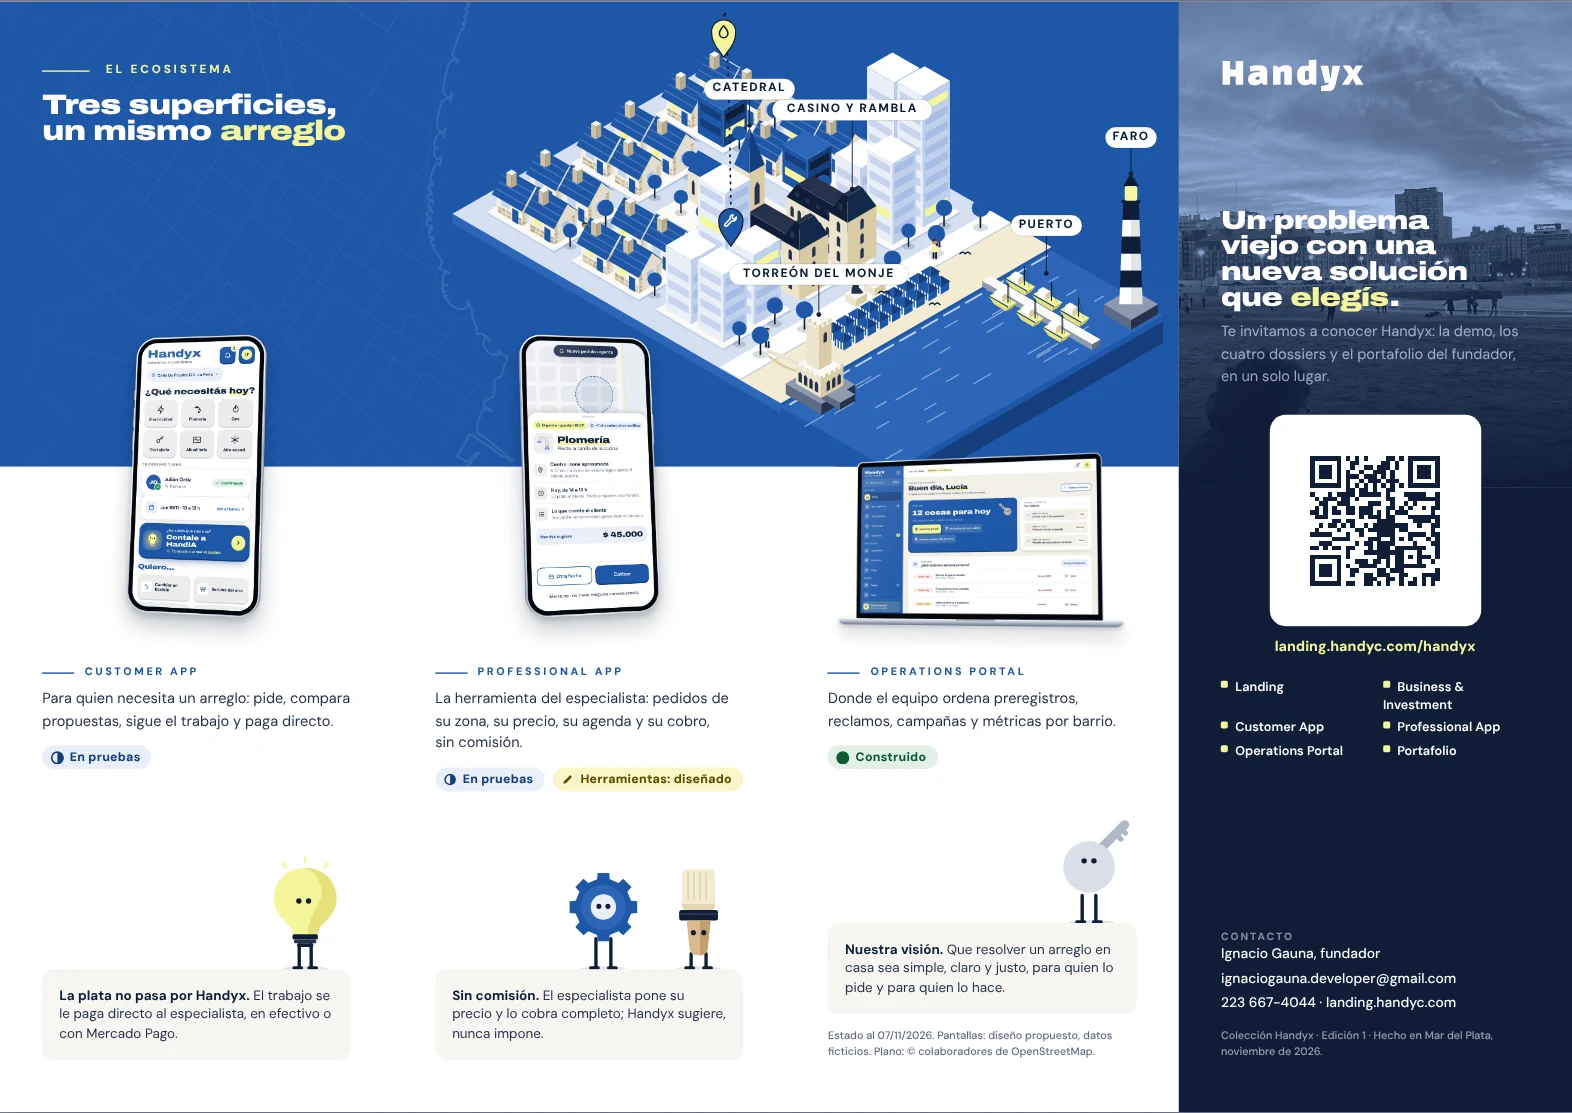
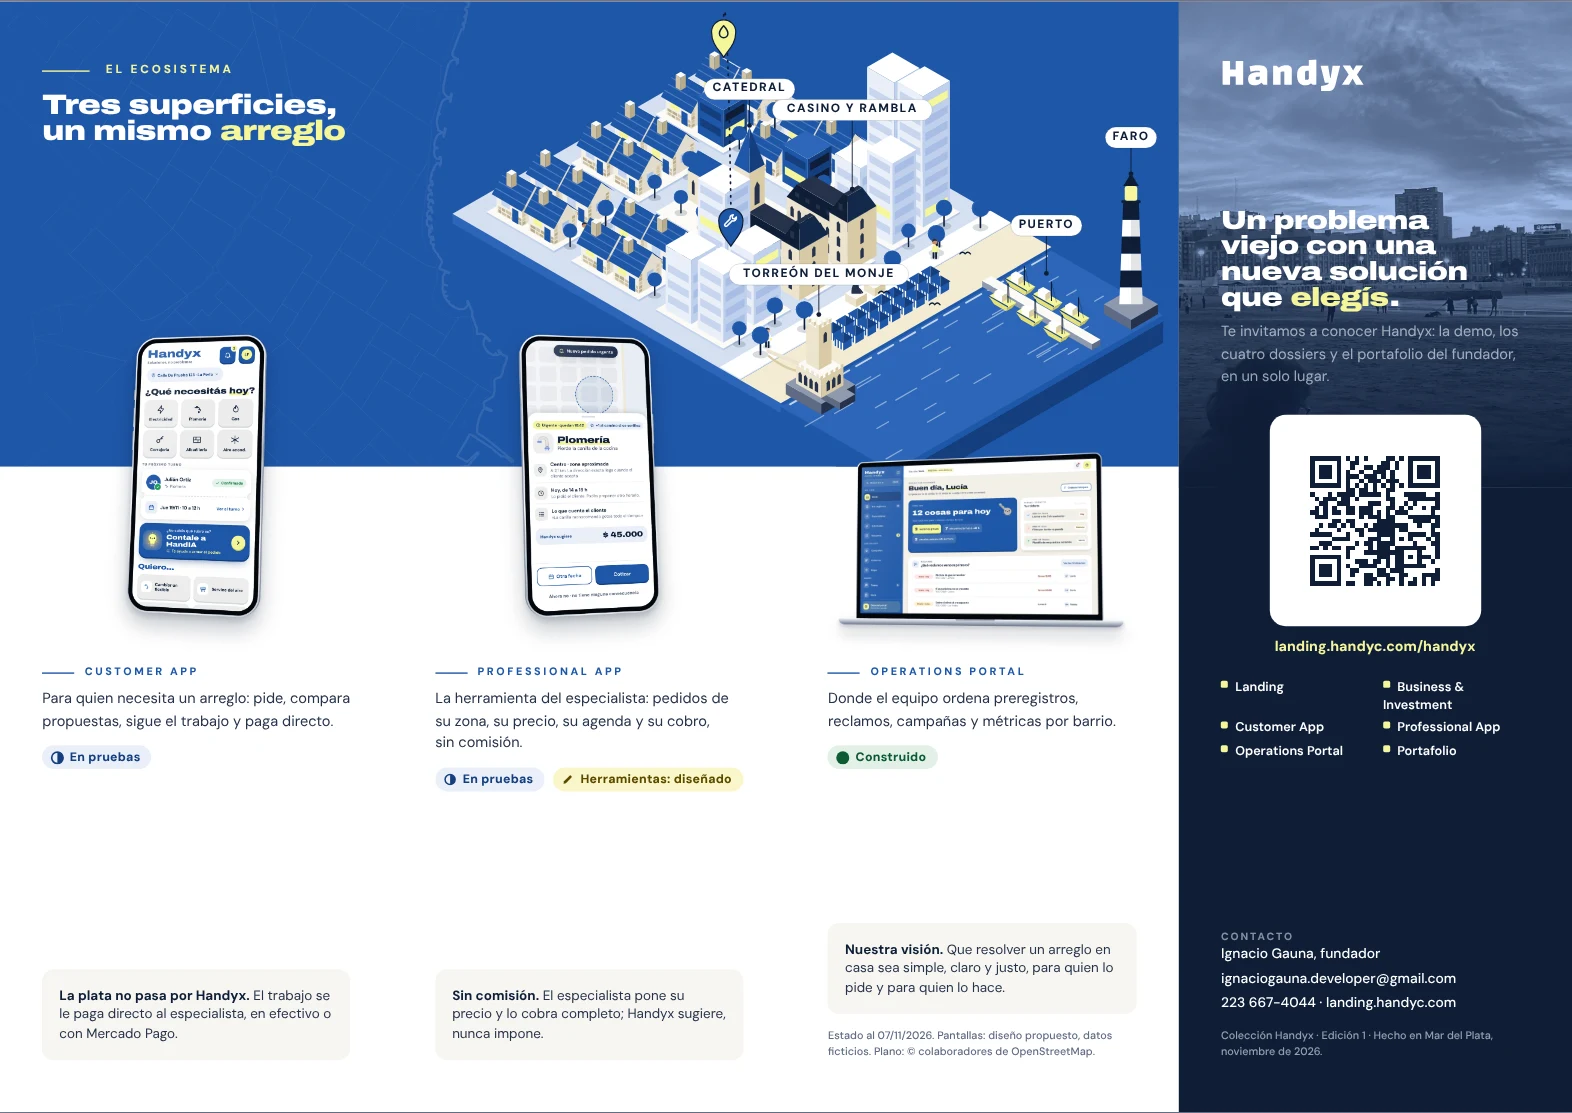
Colección Handyx: sin personajes por ahora; afiches con fotos de Mar del Plata en los 10 barrios; remera solo con edificios
Claude-Session: https://claude.ai/code/session_01QGDMaQ7dcXpVtFC21gPk7N

Changed region(s): [[0.3429, 0.7637, 0.4676, 0.8859], [0.1559, 0.7637, 0.2182, 0.8859], [0.6546, 0.7332, 0.7169, 0.8248]]

diff --git a/dossiers/piezas/05-afiches/index.html b/dossiers/piezas/05-afiches/index.html
@@ -26,7 +26,7 @@
   .a-gancho { margin-top: 7mm; font: 600 17pt/1.3 var(--f-texto); color: rgba(255, 255, 255, 0.92); max-width: 190mm; text-shadow: 0 0.5mm 3mm rgba(14, 29, 54, 0.5); }
   .a-lema { margin-top: auto; font-family: var(--f-titulos); font-weight: 900; font-stretch: 125%; font-size: 33pt; line-height: 0.98; letter-spacing: -0.015em; max-width: 220mm; text-wrap: balance; }
   .a-lema span { color: var(--amarillo); }
-  .tarjeta { position: relative; margin-top: 36mm; display: grid; grid-template-columns: 86mm minmax(0, 1fr); gap: 10mm; padding: 10mm; border-radius: 6mm; background: #FFFFFF; color: var(--navy); box-shadow: 0 6mm 20mm rgba(0, 0, 0, 0.35); }
+  .tarjeta { position: relative; margin-top: 14mm; display: grid; grid-template-columns: 86mm minmax(0, 1fr); gap: 10mm; padding: 10mm; border-radius: 6mm; background: #FFFFFF; color: var(--navy); box-shadow: 0 6mm 20mm rgba(0, 0, 0, 0.35); }
   .tarjeta .qrz { width: 86mm; }
   .tarjeta .qrz img { width: 86mm; height: 86mm; display: block; }
   .tarjeta .url { margin-top: 2.5mm; text-align: center; font: 800 10pt/1 var(--f-texto); letter-spacing: 0.02em; color: var(--azul); }
@@ -52,14 +52,14 @@
   // Un renglón por barrio. fondo: 'foto:<archivo>' (duotono navy en img/) o 'iso:<maqueta|costa|barrio>:<dia|noche>'.
   const ZONAS = [
     { slug: 'centro', nombre: 'Centro', gancho: 'Del Casino a la Peatonal: especialistas de tu zona, con propuestas claras para elegir.', fondo: 'foto:casino-plaza', foto: 'center 55%', handys: ['foco', 'llave'] },
-    { slug: 'guemes', nombre: 'Güemes', gancho: 'Se rompió algo en casa, en Güemes. Contalo y elegí entre propuestas con precio.', fondo: 'iso:barrio:dia', handys: ['brocha', 'foco'] },
+    { slug: 'guemes', nombre: 'Güemes', gancho: 'Se rompió algo en casa, en Güemes. Contalo y elegí entre propuestas con precio.', fondo: 'foto:aerea-centro-playa', foto: 'left 45%', handys: ['brocha', 'foco'] },
     { slug: 'playa-grande', nombre: 'Playa<br>Grande', gancho: 'De Alem al Torreón: el arreglo que necesitás, con especialistas de la zona.', fondo: 'foto:aerea-cabo-puerto', foto: 'center 60%', handys: ['engranaje', 'llave'] },
-    { slug: 'los-troncos', nombre: 'Los<br>Troncos', gancho: 'Tu chalet merece un especialista verificado. Pedilo y compará antes de elegir.', fondo: 'iso:barrio:noche', handys: ['llave', 'brocha'] },
+    { slug: 'los-troncos', nombre: 'Los<br>Troncos', gancho: 'Tu chalet merece un especialista verificado. Pedilo y compará antes de elegir.', fondo: 'foto:aerea-cabo-puerto', foto: 'center 85%', handys: ['llave', 'brocha'] },
     { slug: 'stella-maris', nombre: 'Stella<br>Maris', gancho: 'Frente al mar o a dos cuadras: pedí tu arreglo y elegí por calidad y precio.', fondo: 'foto:aerea-centro-playa', foto: 'center 70%', handys: ['foco', 'engranaje'] },
     { slug: 'plaza-mitre', nombre: 'Plaza<br>Mitre', gancho: 'Del edificio a la casa: especialistas de tu zona para electricidad, plomería, gas y más.', fondo: 'foto:rambla-fuego', foto: 'center 35%', handys: ['brocha', 'llave'] },
-    { slug: 'la-perla', nombre: 'La Perla', gancho: 'Un pedido, varias propuestas con precio y fecha. Vos elegís.', fondo: 'iso:costa:dia', handys: ['foco', 'brocha'] },
-    { slug: 'varese', nombre: 'Varese', gancho: 'Cerca de la playa y cerca de tu casa: especialistas del barrio, a un pedido de distancia.', fondo: 'iso:costa:noche', handys: ['engranaje', 'foco'] },
-    { slug: 'chauvin', nombre: 'Chauvín', gancho: 'Chalets, departamentos y PH: contá qué pasa y recibí propuestas claras.', fondo: 'iso:maqueta:dia', handys: ['llave', 'engranaje'] },
+    { slug: 'la-perla', nombre: 'La Perla', gancho: 'Un pedido, varias propuestas con precio y fecha. Vos elegís.', fondo: 'foto:costa-atardecer', foto: 'center 60%', handys: ['foco', 'brocha'] },
+    { slug: 'varese', nombre: 'Varese', gancho: 'Cerca de la playa y cerca de tu casa: especialistas del barrio, a un pedido de distancia.', fondo: 'foto:aerea-centro-playa', foto: 'right 75%', handys: ['engranaje', 'foco'] },
+    { slug: 'chauvin', nombre: 'Chauvín', gancho: 'Chalets, departamentos y PH: contá qué pasa y recibí propuestas claras.', fondo: 'foto:casino-plaza', foto: 'right 50%', handys: ['llave', 'engranaje'] },
     { slug: 'punta-mogotes', nombre: 'Punta<br>Mogotes', gancho: 'Del faro a tu casa: pedí tu arreglo y pagale directo al especialista.', fondo: 'foto:aerea-faro-mogotes', foto: 'center 60%', handys: ['foco', 'llave'] },
   ];
   const marca = (s) => s.replace('elegís', '<span>elegís</span>');
@@ -74,7 +74,7 @@
         <h1 class="a-zona">${z.nombre}<i>.</i></h1>
         <p class="a-gancho">${z.gancho}</p>
         <p class="a-lema">${marca('Un problema viejo con una nueva solución que elegís.')}</p>
-        <div class="tarjeta"><img class="tel-a permite-salir" src="img/m-inicio-titanio-izq.webp" alt=""><div class="handys permite-salir">${z.handys.map((h) => `<img src="../../marca/personajes-v2/${h}.svg" alt="">`).join('')}</div>
+        <div class="tarjeta"><img class="tel-a permite-salir" src="img/m-inicio-titanio-izq.webp" alt="">
           <div class="qrz"><img src="qr/${z.slug}.svg" alt="Código QR al registro de Handyx"><p class="url">handyc.com/registro</p></div>
           <div class="pasos-a">
             <span class="t">Así de simple</span>

diff --git a/dossiers/piezas/00-triptico/index.html b/dossiers/piezas/00-triptico/index.html
@@ -133,7 +133,7 @@
         <span class="p-ceja" style="margin-top:3mm">Customer App</span>
         <p class="p-texto" style="margin-top:2mm;color:var(--tinta-2)">Para quien necesita un arreglo: pide, compara propuestas, sigue el trabajo y paga directo.</p>
         <span class="estado en-pruebas" style="margin-top:2.4mm;align-self:flex-start">En pruebas</span>
-        <div class="handy-b"><img src="../../marca/personajes-v2/foco.svg" alt=""></div><p class="clave" style="margin-top:0"><b>La plata no pasa por Handyx.</b> El trabajo se le paga directo al especialista, en efectivo o con Mercado Pago.</p>
+        <div style="margin-top:auto"></div><p class="clave" style="margin-top:0"><b>La plata no pasa por Handyx.</b> El trabajo se le paga directo al especialista, en efectivo o con Mercado Pago.</p>
       </div>
 
       <div class="panel B2">
@@ -142,7 +142,7 @@
         <span class="p-ceja" style="margin-top:3mm">Professional App</span>
         <p class="p-texto" style="margin-top:2mm;color:var(--tinta-2)">La herramienta del especialista: pedidos de su zona, su precio, su agenda y su cobro, sin comisión.</p>
         <div style="display:flex;gap:1.6mm;flex-wrap:wrap;margin-top:2.4mm"><span class="estado en-pruebas">En pruebas</span><span class="estado disenado">Herramientas: diseñado</span></div>
-        <div class="handy-b"><img src="../../marca/personajes-v2/engranaje.svg" alt=""><img src="../../marca/personajes-v2/brocha.svg" alt=""></div><p class="clave" style="margin-top:0"><b>Sin comisión.</b> El especialista pone su precio y lo cobra completo; Handyx sugiere, nunca impone.</p>
+        <div style="margin-top:auto"></div><p class="clave" style="margin-top:0"><b>Sin comisión.</b> El especialista pone su precio y lo cobra completo; Handyx sugiere, nunca impone.</p>
       </div>
 
       <div class="panel B3">
@@ -151,7 +151,7 @@
         <span class="p-ceja" style="margin-top:3mm">Operations Portal</span>
         <p class="p-texto" style="margin-top:2mm;color:var(--tinta-2)">Donde el equipo ordena preregistros, reclamos, campañas y métricas por barrio.</p>
         <span class="estado construido" style="margin-top:2.4mm;align-self:flex-start">Construido</span>
-        <div class="handy-b"><img src="../../marca/personajes-v2/llave.svg" alt=""></div><p class="clave" style="margin-top:0"><b>Nuestra visión.</b> Que resolver un arreglo en casa sea simple, claro y justo, para quien lo pide y para quien lo hace.</p>
+        <div style="margin-top:auto"></div><p class="clave" style="margin-top:0"><b>Nuestra visión.</b> Que resolver un arreglo en casa sea simple, claro y justo, para quien lo pide y para quien lo hace.</p>
         <p class="chico-pie" style="margin-top:3mm">Estado al 07/11/2026. Pantallas: diseño propuesto, datos ficticios. Plano: © colaboradores de OpenStreetMap.</p>
       </div>
 

diff --git a/dossiers/piezas/06-instagram/index.html b/dossiers/piezas/06-instagram/index.html
@@ -73,6 +73,7 @@
 
 <!-- 3 · seis rubros -->
 <section class="post hueso" id="ig-03">
+  <div class="foto" style="top:auto;height:380px"><img src="img/aerea-faro-mogotes-navy.webp" alt=""></div>
   <div class="in">
     <div class="cab"><img src="../../marca/logo-handyx.svg" alt="Handyx"><span style="color:var(--gris)">Rubros</span></div>
     <h2 style="margin-top:60px">Seis rubros del <em>hogar</em>.</h2>
@@ -84,7 +85,6 @@
       <div><svg viewBox="0 0 24 24"><rect x="3" y="5" width="18" height="14" rx="1.5"/><path d="M3 12h18M10 5v7M14 12v7"/></svg>Albañilería</div>
       <div><svg viewBox="0 0 24 24"><path d="M12 3v18M4.2 7.5l15.6 9M4.2 16.5l15.6-9"/></svg>Aire acond.</div>
     </div>
-    <div class="handys" style="right:0;bottom:60px;position:absolute"><img src="../../marca/personajes-v2/llave.svg" alt=""><img src="../../marca/personajes-v2/foco.svg" alt=""></div>
     <div class="pie" style="color:var(--gris)"><span>handyc.com/registro</span></div>
   </div>
 </section>
@@ -121,7 +121,6 @@
     <div class="pie" style="color:var(--gris)"><span>Pantalla: diseño propuesto · datos ficticios</span></div>
   </div>
   <img class="tel" src="img/m-esp-pedido-titanio.webp" alt="" style="right:-110px;top:470px;width:540px">
-  <div class="handys" style="left:70px;bottom:150px"><img src="../../marca/personajes-v2/engranaje.svg" alt=""><img src="../../marca/personajes-v2/brocha.svg" alt=""></div>
 </section>
 
 <!-- 7 · hecho en Mar del Plata -->
@@ -136,6 +135,7 @@
 
 <!-- 8 · verificación -->
 <section class="post azul" id="ig-08">
+  <div class="foto" style="opacity:.4"><img src="img/aerea-centro-playa-navy.webp" alt=""></div>
   <div class="in">
     <div class="cab"><img src="../../marca/logo-handyx-blanco.svg" alt="Handyx"><span>Confianza</span></div>
     <h2 style="margin-top:auto">Sabés quién <em>entra a tu casa</em>.</h2>
@@ -143,7 +143,6 @@
     <div class="sellos"><span>✓ Identidad</span><span>✓ Antecedentes</span></div>
     <div class="pie" style="margin-top:60px"><span>Proceso de verificación en pruebas</span></div>
   </div>
-  <div class="handys" style="right:70px;top:200px"><img src="../../marca/personajes-v2/llave.svg" alt="" style="width:220px"></div>
 </section>
 
 <!-- 9 · registrate -->

diff --git a/dossiers/herramientas/remera.py b/dossiers/herramientas/remera.py
@@ -1,7 +1,6 @@
 """Remera Handyx v2: archivos de impresión (SVG vectorial) para frente y espalda, sobre tela azul de marca.
-Frente: logo chico en el pecho con el lema. Espalda: la línea de Mar del Plata (torres, Casino con techo de mansarda,
-Torreón del Monje y el faro) en blanco, los cuatro Handys con la estética nueva parados sobre la Rambla, el logo y
-«Hecho en Mar del Plata». Tintas: blanco, amarillo #F5F59A y cielo #E9EFF9 (lo azul es la tela, no se imprime).
+Frente: logo chico en el pecho con el lema. Espalda: solo edificios — la línea de Mar del Plata (torres, Casino con
+techo de mansarda, Torreón del Monje y el faro) sobre la Rambla, el logo y «Hecho en Mar del Plata». Tintas: blanco, amarillo #F5F59A y cielo #E9EFF9 (lo azul es la tela, no se imprime).
 Uso: python3 -I dossiers/herramientas/remera.py  → dossiers/piezas/07-remera/"""
 import pathlib, re
 
@@ -85,9 +84,7 @@ espalda = f'''<svg xmlns="http://www.w3.org/2000/svg" viewBox="0 0 {W} {H}" widt
 <title>Remera Handyx · espalda (impresión, tela azul #1F57A8)</title>
 {logo}
 <text x="300" y="{120 + lh + 44}" text-anchor="middle" font-family="DM Sans, sans-serif" font-weight="700" font-size="22" letter-spacing="7" fill="{AMA}">SOLUCIONES, NO PROBLEMAS.</text>
-<g transform="translate(-58 -150) scale(1.2)">{skyline(70, 500, 460)}</g>
-<rect x="90" y="664" width="420" height="4" rx="2" fill="{CIELO}"/>
-{handys}
+<g transform="translate(-83 -110) scale(1.25)">{skyline(70, 560, 460)}</g>
 <text x="300" y="720" text-anchor="middle" font-family="DM Sans, sans-serif" font-weight="800" font-size="17" letter-spacing="8" fill="{CIELO}">HECHO EN MAR DEL PLATA</text>
 </svg>'''
 (OUT / 'remera-espalda.svg').write_text(espalda)
